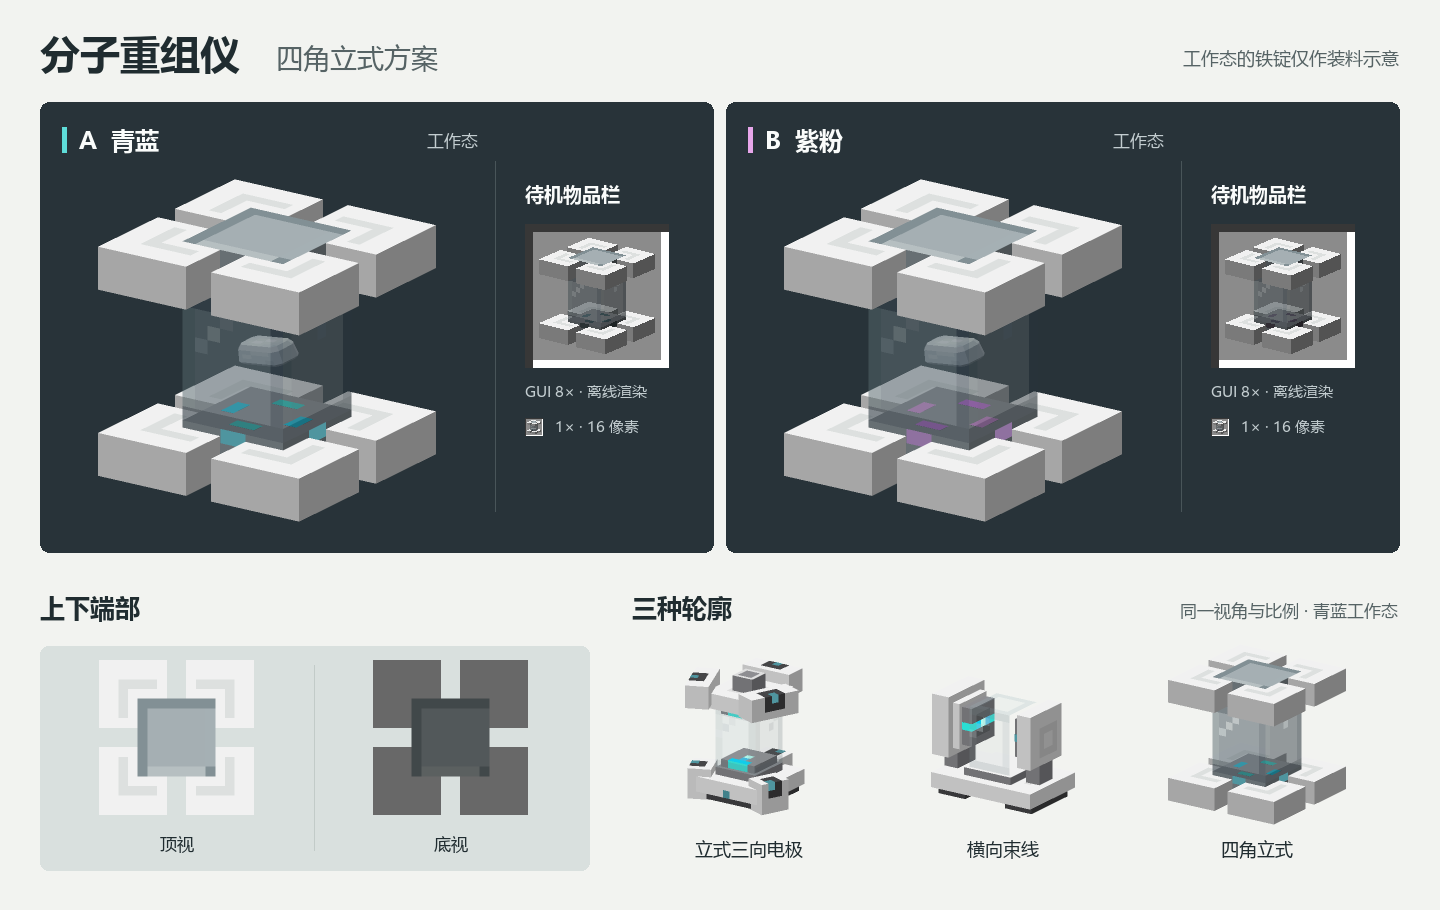
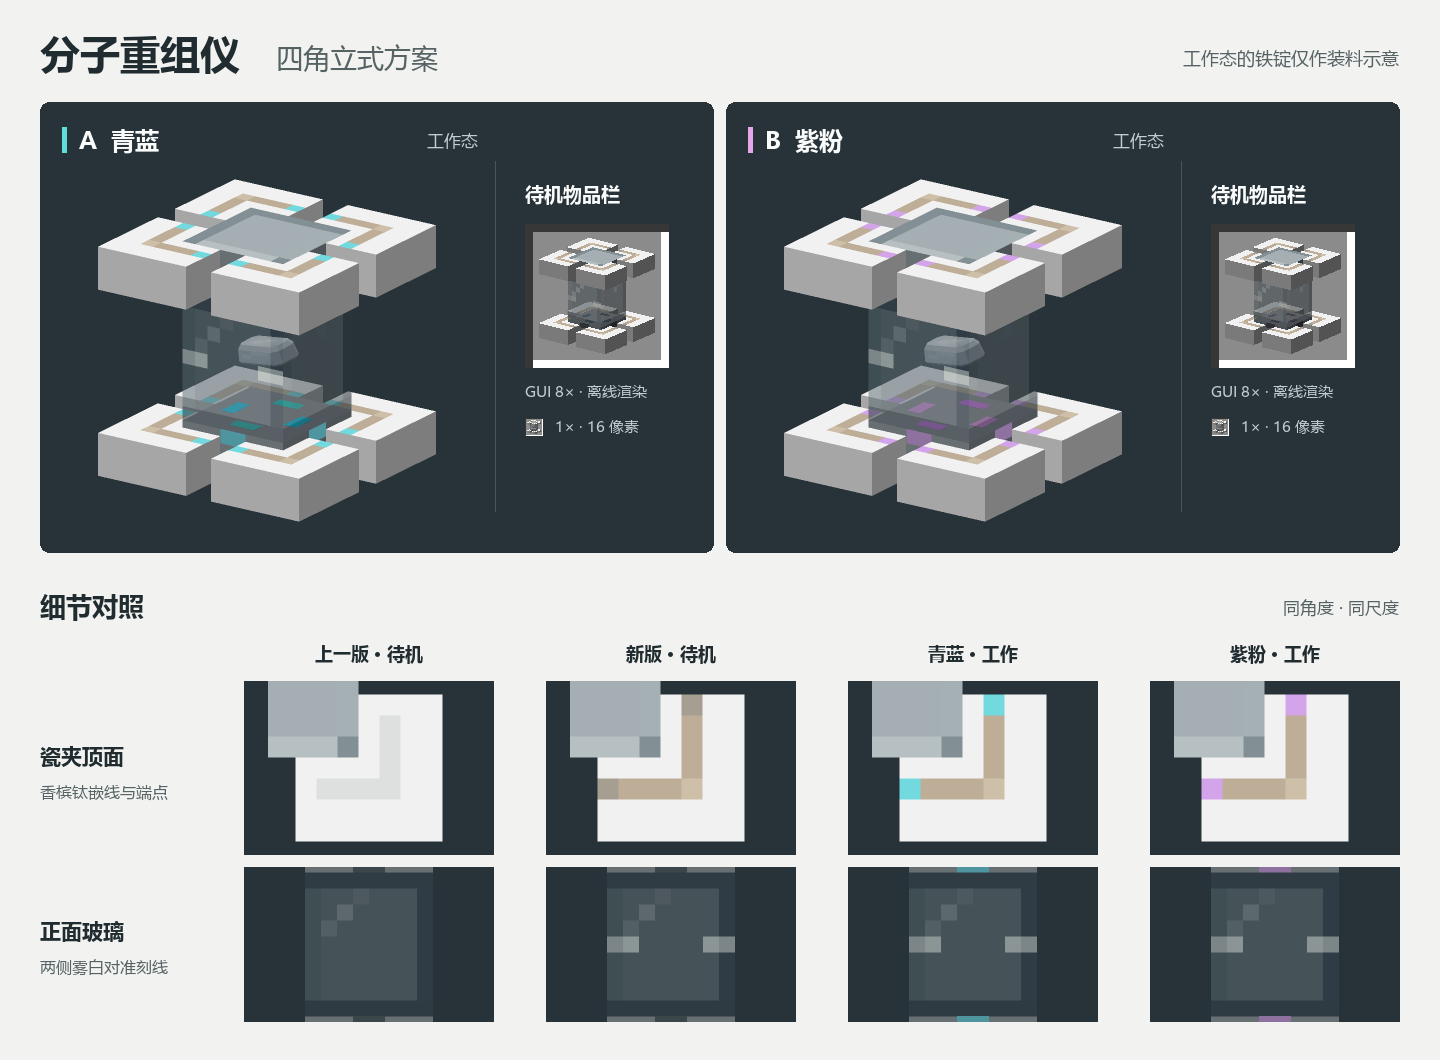
Art: inlay titanium traces and etch the transformer sight glass

diff --git a/tools/art/mt1_quadrupole_preview.py b/tools/art/mt1_quadrupole_preview.py
@@ -1,11 +1,14 @@
 #!/usr/bin/env python3
 """Render the four-corner MT1 candidate and its orthographic review sheet."""
 import argparse
+from pathlib import Path
+
+from PIL import Image
 
 import mt1_beamline_preview as beamline
 from mt1_preview import (
-    ACCENTS, INK, LABELS, LINE, MACHINE, MUTED, PALE, PAPER, ROOT, STAGE,
-    VARIANTS as RETAINED_TEXTURES, VIEW_SURFACE, faces, render, sample_ingot,
+    ACCENTS, INK, LABELS, MACHINE, MUTED, PALE, PAPER, ROOT, STAGE,
+    faces, render, sample_ingot,
 )
 
 
@@ -15,12 +18,28 @@ MODELS = ASSETS / "models/block/producer"
 TEXTURES = (ASSETS / "textures", BASE / "variant_b")
 OUTPUT = ROOT / "docs/art/previews/MT1-quadrupole.png"
 VIEWS_OUTPUT = ROOT / "docs/art/previews/MT1-quadrupole-views.png"
+REFERENCE = BASE / "reference/c3ff6228-detail.png"
 CAMERA = (-.68, .43, -1.)
 SAMPLE = (8, 8, 8)
 
 
+def detail_plate(models, textures, *, working=False):
+    """The same north-west ceramic corner and north window in every comparison."""
+    geometry = faces(MACHINE + ("_on" if working else ""), textures, models=models)
+    plate = Image.new("RGB", (250, 341), PAPER)
+    # Isolate one complete L (x,z = 0..7) including its two inward terminals.
+    corner = render(geometry, (0, 1, 0), 21., (202, 174), STAGE, centre=(3.5, 16, 3.5))
+    top = Image.new("RGB", (250, 174), STAGE)
+    top.paste(corner, (24, 0))
+    plate.paste(top)
+    # The 8×9 glass face fills this crop vertically; the aim marks sit at y=8.
+    pane = render(geometry, (0, 0, -1), 16., (250, 155), STAGE, centre=(8, 8, 4))
+    plate.paste(pane, (0, 186))
+    return plate
+
+
 def make_sheet(font_path=None):
-    sheet, draw, label = beamline.page((1440, 910), font_path)
+    sheet, draw, label = beamline.page((1440, 1060), font_path)
     label(40, 53, "分子重组仪", 40, bold=True)
     label(276, 57, "四角立式方案", 27, MUTED)
     label(1399, 57, "工作态的铁锭仅作装料示意", 18, MUTED, anchor="rm")
@@ -36,24 +55,24 @@ def make_sheet(font_path=None):
         draw.line((left + 455, 161, left + 455, 511), fill="#495559")
         beamline.inventory_panel(sheet, label, left + 485, 193, textures, ASSETS)
 
-    label(40, 607, "上下端部", 25, bold=True)
-    label(632, 607, "三种轮廓", 25, bold=True)
-    label(1398, 610, "同一视角与比例 · 青蓝工作态", 17, MUTED, anchor="rm")
-    draw.rounded_rectangle((40, 646, 589, 870), 8, fill=VIEW_SURFACE)
-    draw.line((314, 665, 314, 850), fill=LINE)
-    current = faces(MACHINE + "_on", TEXTURES[0], models=MODELS)
-    for mid, eye, caption in ((177, (0, 1, 0), "顶视"), (451, (0, -1, 0), "底视")):
-        sheet.paste(render(current, eye, 9.7, (183, 173), VIEW_SURFACE), (mid - 92, 651))
-        label(mid, 843, caption, 17, INK, anchor="mm")
+    label(40, 605, "细节对照", 26, bold=True)
+    label(1399, 607, "同角度 · 同尺度", 17, MUTED, anchor="rm")
+    label(40, 755, "瓷夹顶面", 21, bold=True)
+    label(40, 792, "香槟钛嵌线与端点", 16, MUTED)
+    label(40, 930, "正面玻璃", 21, bold=True)
+    label(40, 967, "两侧雾白对准刻线", 16, MUTED)
+    with Image.open(REFERENCE) as source:
+        baseline = source.convert("RGB")
     comparison = (
-        (faces(MACHINE + "_on", RETAINED_TEXTURES[0]), "立式三向电极"),
-        (faces(MACHINE + "_on", beamline.TEXTURES[0], models=beamline.MODELS), "横向束线"),
-        (current, "四角立式"),
+        ("上一版 · 待机", baseline),
+        ("新版 · 待机", detail_plate(MODELS, TEXTURES[0])),
+        ("青蓝 · 工作", detail_plate(MODELS, TEXTURES[0], working=True)),
+        ("紫粉 · 工作", detail_plate(MODELS, TEXTURES[1], working=True)),
     )
-    for i, (geometry, caption) in enumerate(comparison):
-        mid = 749 + i * 254
-        sheet.paste(render(geometry, CAMERA, 8., (208, 191), PAPER), (mid - 104, 639))
-        label(mid, 848, caption, 18, anchor="mm")
+    for i, (caption, detail) in enumerate(comparison):
+        left = 244 + i * 302
+        label(left + 125, 652, caption, 18, INK, True, anchor="mm")
+        sheet.paste(detail, (left, 681))
     return sheet
 
 
@@ -65,8 +84,17 @@ def make_views_sheet(font_path=None):
 if __name__ == "__main__":
     parser = argparse.ArgumentParser(description=__doc__)
     parser.add_argument("--font", help="path to a Chinese TrueType/OpenType font")
+    parser.add_argument("--reference-assets", type=Path, metavar="ASSETS",
+                        help="capture the baseline once using the c3ff6228 pack's assets/mio_icif directory")
     options = parser.parse_args()
-    OUTPUT.parent.mkdir(parents=True, exist_ok=True)
-    for make, path in ((make_sheet, OUTPUT), (make_views_sheet, VIEWS_OUTPUT)):
-        make(options.font).save(path, optimize=True)
-        print(path.relative_to(ROOT))
+    if options.reference_assets:
+        if not REFERENCE.exists():
+            old = options.reference_assets
+            REFERENCE.parent.mkdir(parents=True, exist_ok=True)
+            detail_plate(old / "models/block/producer", old / "textures").save(REFERENCE, optimize=True)
+        print(REFERENCE.relative_to(ROOT))
+    else:
+        OUTPUT.parent.mkdir(parents=True, exist_ok=True)
+        for make, path in ((make_sheet, OUTPUT), (make_views_sheet, VIEWS_OUTPUT)):
+            make(options.font).save(path, optimize=True)
+            print(path.relative_to(ROOT))

diff --git a/tools/art/mt1_quadrupole.py b/tools/art/mt1_quadrupole.py
@@ -3,7 +3,7 @@
 import json
 from pathlib import Path
 
-from PIL import Image
+from PIL import Image, ImageDraw
 
 from mt1_model import GRAPHITE, PALETTES, PORCELAIN, SIDES, STEEL, canvas
 
@@ -13,20 +13,13 @@ TRIAL = ROOT / "docs/art/mt1/quadrupole"
 ASSETS = TRIAL / "pack/assets/mio_icif"
 PARTS = Path("block/producer/mt1_quadrupole")
 REF = "mio_icif:" + PARTS.as_posix() + "/"
+INLAY_TIPS = {"a": "#72DADE", "b": "#D4A4EB"}
 
 
 def neutral_parts():
     # The vertical ceramic returns need a darker glaze than the top. With
     # the same white, one lit side disappears into the vanilla inventory slot.
     result = {"porcelain": Image.new("RGBA", (16, 16), "#D0D0D0")}
-    # World-plan UVs keep the stamped relief continuous across each L's elbow.
-    img, d = canvas(PORCELAIN)
-    for right in (False, True):
-        for back in (False, True):
-            marks = [(2, 5), (2, 2), (5, 2)]
-            d.line([(15 - x if right else x, 15 - z if back else z)
-                    for x, z in marks], fill="#DDE0DF", width=1)
-    result["ceramic_corner"] = img
 
     # Separate UV islands for the closed access lid, the four internal pole
     # seats and the vertical edge of the metal closure.
@@ -57,7 +50,29 @@ def neutral_parts():
                         (13, 1, (155, 174, 181, 117))):
         d.point((x, y), fill=color)
     result["smoked_glass"] = img
+    # The north window has a one-pixel-deep notch from each edge seal. Row 4
+    # of its nine texels sits at the sample centre (model Y=8).
+    front = img.copy()
+    marks = ImageDraw.Draw(front)
+    for edge, inner in ((0, 1), (7, 6)):
+        marks.point((edge, 4), fill=(196, 207, 207, 184))
+        marks.point((inner, 4), fill=(215, 225, 222, 193))
+    result["front_glass"] = front
     return result
+
+
+def ceramic_inlay(tip):
+    # Whole-block UVs join the two legs across separate ceramic cuboids. Each
+    # 7x7 corner stops at the open slot; the working texture changes both tips.
+    img, d = canvas(PORCELAIN)
+    for elbow_x, sign_x in ((2, 1), (13, -1)):
+        for elbow_z, sign_z in ((2, 1), (13, -1)):
+            end_x, end_z = elbow_x + 4 * sign_x, elbow_z + 4 * sign_z
+            d.line([(elbow_x, end_z), (elbow_x, elbow_z), (end_x, elbow_z)], fill="#BEAE98")
+            d.point((elbow_x, elbow_z), fill="#CEBFA9")
+            d.point((end_x, elbow_z), fill=tip)
+            d.point((elbow_x, end_z), fill=tip)
+    return img
 
 
 def field_marks(palette):
@@ -76,6 +91,7 @@ def field_marks(palette):
 
 def model(working):
     layers = {"solid": [], "cutout": [], "translucent": []}
+    corner = "ceramic_corner_on" if working else "ceramic_corner"
 
     def box(name, lo, hi, surfaces, layer="solid"):
         dx, dy, dz = (b - a for a, b in zip(lo, hi))
@@ -110,7 +126,7 @@ def model(working):
                     if back:
                         z, Z = 16 - Z, 16 - z
                     surfaces = dict.fromkeys(walls, ("porcelain", 0, 0))
-                    surfaces.update(up=("ceramic_corner", x, z), down=("porcelain", 0, 0))
+                    surfaces.update(up=(corner, x, z), down=("porcelain", 0, 0))
                     box(f"{level}_{ns}_{ew}_{segment}", [x, y, z], [X, y + 3, Z], surfaces)
 
     # The closures slightly overhang the inner ends vertically, exposing
@@ -132,7 +148,7 @@ def model(working):
     # A single glass surface on each side closes the full square work column.
     # Both end faces are closed by the solid plates above.
     box("vertical_chamber_glass", [4, 3.5, 4], [12, 12.5, 12], {
-        "north": ("smoked_glass", 0, 0), "south": ("smoked_glass", 0, 0),
+        "north": ("front_glass", 0, 0), "south": ("smoked_glass", 0, 0),
         "east": ("smoked_glass", 8, 0), "west": ("smoked_glass", 8, 0)},
         layer="translucent")
 
@@ -149,10 +165,13 @@ def model(working):
 
 def main():
     neutral = neutral_parts()
+    neutral["ceramic_corner"] = ceramic_inlay("#A69E90")
     for directory, variant in ((ASSETS / "textures", "a"), (TRIAL / "variant_b", "b")):
         target = directory / PARTS
         target.mkdir(parents=True, exist_ok=True)
-        for name, img in {**neutral, **field_marks(PALETTES[variant])}.items():
+        textures = {**neutral, **field_marks(PALETTES[variant]),
+                    "ceramic_corner_on": ceramic_inlay(INLAY_TIPS[variant])}
+        for name, img in textures.items():
             img.save(target / (name + ".png"), optimize=True)
     target = ASSETS / "models/block/producer"
     target.mkdir(parents=True, exist_ok=True)

diff --git a/docs/art/mt1/quadrupole/README.md b/docs/art/mt1/quadrupole/README.md
@@ -2,7 +2,9 @@
 
 [模型与物品栏](../../previews/MT1-quadrupole.png) · [正、侧、顶、斜四视图](../../previews/MT1-quadrupole-views.png) · [游戏内背包实拍](../../previews/MT1-quadrupole-client.png)
 
-按参考图把上下端各分为四个向内折的陶瓷夹角。俯看能从四道缺口辨认出独立方盖，侧看能透过烟色玻璃看到上下端面之间的工位。主图中的铁锭演示装料位置，物品栏直接绘制空腔待机方块。瓷夹顶面用瓷白，侧面用浅灰，使夹角在背包格里也能看出厚度。
+上下端各有四个向内折的陶瓷夹角。每个夹角的白瓷顶面嵌一条像素宽的香槟钛线，每层四段绕成一圈，在夹角之间断开。通电时每层八个端点呈冰青或淡兰紫，钛线和陶瓷仍随环境受光。浅灰侧面使夹角在背包格里也能看出厚度。
+
+正面烟色玻璃在样品中心高度有两条雾白刻线，各从边封向内伸一像素。图中的铁锭演示装料位置。物品栏直接绘制空腔待机方块。
 
 ## 试用
 
@@ -16,7 +18,7 @@
 | --- | --- |
 | 上下四角 | 每个角件占 7×7，折臂宽 4。下层位于 Y=0–3，上层位于 Y=13–16，四边中点各有宽 2 的开口。 |
 | 方盖与玻璃 | 两个闭合端盖与玻璃共用 X、Z=4–12 的截面。下盖止于 Y=3.5，上盖始于 Y=12.5，中间的四面烟色玻璃构成 8×9×8 的观察腔。 |
-| 通电触点 | 下盖的 `core_glow` 朝上，上盖的 `upper_contacts_glow` 朝下。工作态只把这两个作用面及端盖北、西向的四个小指示标记提到满亮度。 |
+| 通电触点 | 下盖的 `core_glow` 朝上，上盖的 `upper_contacts_glow` 朝下。两者各有 3 个满亮面。夹角嵌线由现有瓷夹顶面切换 `ceramic_corner` 和 `ceramic_corner_on` 两张贴图来显示通电色。 |
 
 待机和工作均为 **21 个元素、94 个面**。两端陶瓷夹角与端盖占 84 个实心面，灯纹占 6 个镂空面，玻璃占 4 个半透明面。
 
